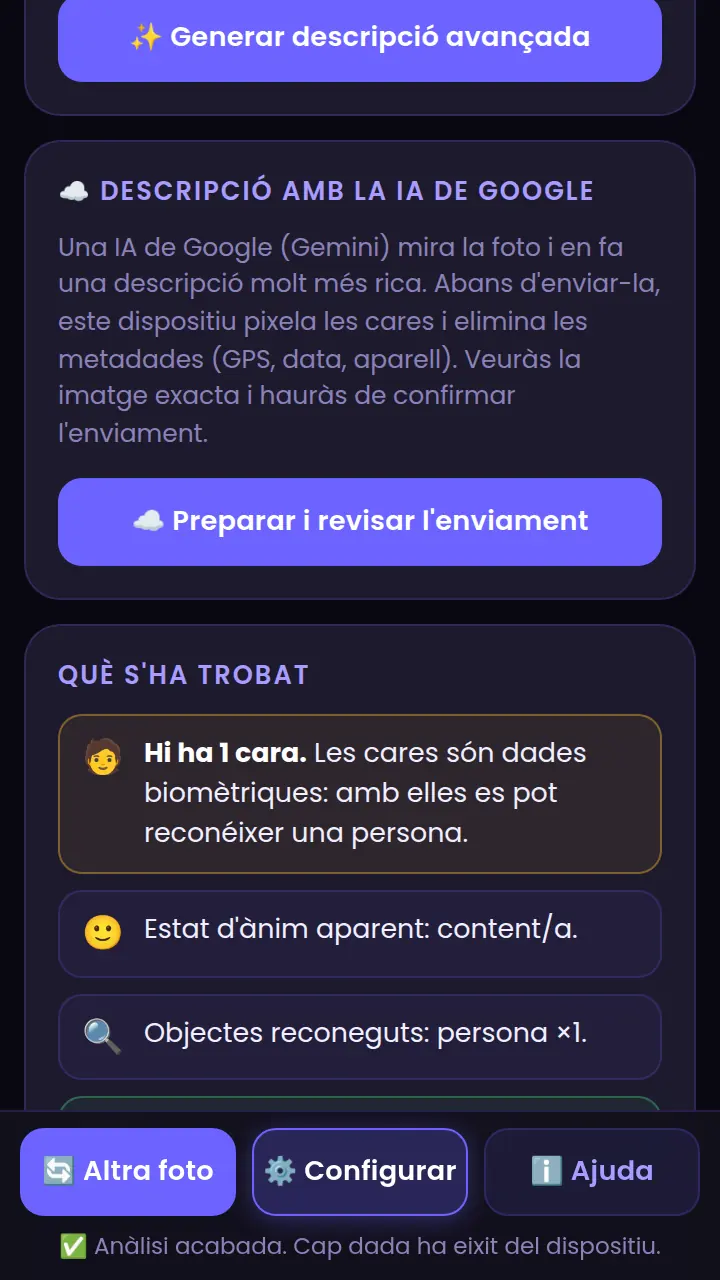
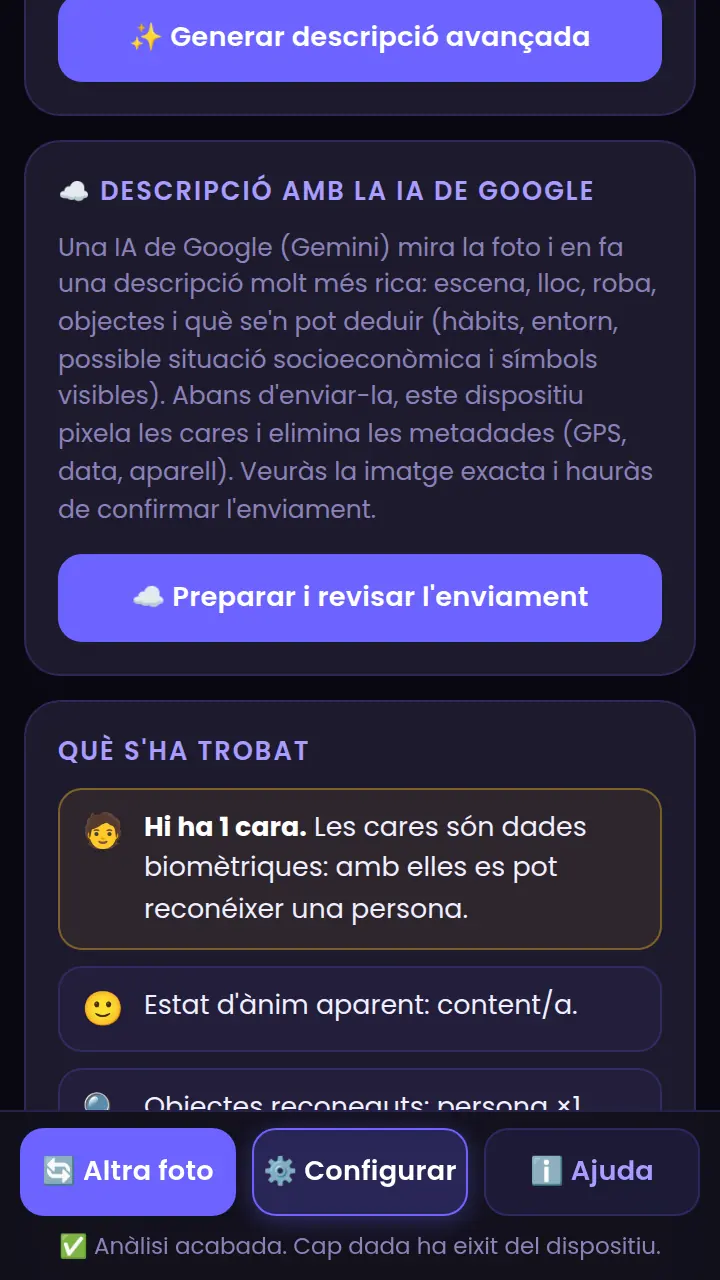
update

Changed region(s): [[0.0306, 0.1875, 0.9778, 0.875]]

diff --git a/quevuen/guia.html b/quevuen/guia.html
@@ -28,7 +28,7 @@
 <section class="step" id="resultat"><div class="step-head"><span class="n">3</span><h2>Llig el resultat</h2></div><p>En uns segons (la primera vegada, un poc més perquè carreguen els models) veuràs la foto amb requadres i, a sota, el resum.</p><div class="figrow"><figure class="fig phone"><img src="guia-img/quevuen-2-resultat.webp" alt="Resultat amb la foto marcada"><figcaption>La foto amb el text detectat marcat en groc. Els botons de sota activen o desactiven els requadres.</figcaption></figure><figure class="fig phone"><img src="guia-img/quevuen-3-resum.webp" alt="Resum de privacitat"><figcaption>El resum: un «risc de privacitat» i què sap qui reba la foto.</figcaption></figure></div><div class="tw"><table class="t"><tr><th>Zona</th><th>Què és</th></tr><tr><td><b>Requadres</b></td><td>Violeta = cares (amb l'edat estimada), verd = objectes, groc = text llegit. Els botons de sota de la foto els mostren o amaguen.</td></tr><tr><td><b>Risc de privacitat</b></td><td><b>Baix</b>, <b>mitjà</b> o <b>alt</b>. Puja amb la ubicació exacta, el nom de l'autor/a, el número de sèrie, cares (sobretot de menors) i dades personals llegides (telèfon, correu, matrícula…).</td></tr><tr><td><b>El resum</b></td><td>Uns quants paràgrafs, com ho diria algú que veu la foto: qui/quan/amb què, on, qui hi apareix i què es pot llegir, i <b>què se'n pot deduir</b> creuant les dades (per exemple: «es va fer en horari de classe i amb GPS: es pot deduir quin centre freqüentes»).</td></tr><tr><td><b>Què s'ha trobat</b></td><td>La llista detallada, ordenada de més a menys important: roig = molt sensible, groc = a vigilar, gris = informatiu, verd = tot bé.</td></tr></table></div></section>
 <section class="step" id="troballes"><div class="step-head"><span class="n">4</span><h2>Les troballes, una per una</h2></div><div class="figrow"><figure class="fig phone"><img src="guia-img/quevuen-4-troballes.webp" alt="Llista de troballes"><figcaption>Llista de troballes: ubicació, correu, telèfon, matrícula…</figcaption></figure><figure class="fig phone"><img src="guia-img/quevuen-5-ubicacio.webp" alt="Targeta d'ubicació, aparell i data"><figcaption>Detall de la ubicació, l'aparell i la data.</figcaption></figure></div><h3>📍 Ubicació, aparell i data</h3><p>Si la foto porta <b>GPS</b>, veuràs les coordenades, l'altitud i cap on mirava el mòbil, i un botó per <b>obrir el lloc en OpenStreetMap</b> (eixe botó necessita Internet; la resta no). També es mostra la marca i el model del mòbil, la versió del programari, l'objectiu de la càmera, el <b>número de sèrie</b> si hi és, l'autor/a i la data i l'hora exactes. Amb activar <i>Mostrar detalls tècnics</i> a la configuració, apareix la llista completa de metadades.</p><h3>🧑 Persones</h3><p>Per a cada cara es mostra un detall xicotet amb l'<b>edat aproximada</b>, el <b>sexe aparent</b> i l'<b>expressió</b> (content/a, trist/a, sorprés/a…). Són estimacions d'un model molt menut: poden errar molts anys. Si calcula que hi ha algú <b>menor</b>, ho marca amb una alerta, perquè eixes fotos convé compartir-les amb molta cura.</p><h3>🔍 Objectes i 🔤 Text</h3><p>L'app reconeix unes <b>80 classes</b> d'objectes (persona, cotxe, gos, mòbil, tassa, cadira…) i en deduïx si sembla un lloc interior o exterior. El text es llig amb OCR; si hi ha <b>telèfons, correus, matrícules, DNI, IBAN o adreces</b>, els marca com a dades personals visibles.</p><h3>🎨 Colors i llum</h3><p>Mostra els cinc colors dominants i si la foto és fosca o molt lluminosa (una pista de si és de nit o de dia).</p></section>
 <section class="step" id="avancada"><div class="step-head"><span class="n">5</span><h2>Descripció avançada amb IA (opcional)</h2></div><p>L'anàlisi bàsica troba coses concretes (cares, objectes, text, metadades), però no «entén» la foto sencera. Per això hi ha un segon nivell: un model d'IA de visió i llenguatge, <b>Florence-2</b>, que mira la imatge i l'<b>escriu amb frases</b>, com faria una persona.</p><div class="figrow"><figure class="fig phone"><img src="guia-img/quevuen-8-avancada-abans.webp" alt="Targeta de descripció avançada abans de generar"><figcaption>La targeta «Descripció avançada amb IA»: avisa de la descàrrega i té el botó per a generar-la.</figcaption></figure><figure class="fig phone"><img src="guia-img/quevuen-9-avancada.webp" alt="Descripció avançada generada"><figcaption>Després de generar-la: el que «veu» el model.</figcaption></figure></div><div class="note"><b>ℹ Dibuix il·lustratiu.</b> El text d'estes captures és un exemple, per a mostrar com queda; el model real pot escriure una cosa diferent.</div><ol><li>Quan l'anàlisi bàsica acaba, baixa fins a la targeta <b>🧠 Descripció avançada amb IA</b> i prem <b>✨ Generar descripció avançada</b>.</li><li><b>La primera vegada</b> l'app demana permís per a descarregar el model (uns <b>250 MB</b>: millor amb Wi-Fi). Només es baixa una vegada.</li><li>Espera: el mòbil «mira» la foto. Segons el mòbil pot tardar de <b>uns segons a uns minuts</b>.</li><li>Apareix la descripció <b>en anglés</b> i el resum s'enriquix: deduïx el tipus de lloc (cuina, aula, platja…), què fa la gent i si semblen xiquets o hi ha uniformes o logotips.</li></ol><h3>Què cal saber</h3><ul><li><b>Es fa tot al mòbil.</b> La foto no s'envia a cap servidor; només es baixa el model d'IA (de Hugging Face).</li><li><b>Després funciona sense Internet</b>, perquè el model queda guardat en el navegador d'este dispositiu.</li><li><b>Va millor en Android amb Chrome</b> actualitzat (usa la targeta gràfica, WebGPU). Si el mòbil no ho permet, usa el processador i va més lent.</li><li><b>Escriu en anglés</b> i pot errar o inventar-se coses. Tracta-ho com una pista, no com una veritat.</li><li>Si no vols este model, desactiva-la a <b>⚙ Configurar → «Mostrar la descripció avançada»</b>.</li></ul><div class="warn"><b>⚠ Primera descàrrega.</b> Si no tens connexió i el model no està descarregat, l'app t'ho diu i no passa res: l'anàlisi bàsica continua funcionant.</div></section>
-<section class="step" id="google"><div class="step-head"><span class="n">6</span><h2>IA de Google (opcional, desactivada)</h2></div><p>La descripció local és limitada. Si vols una descripció <b>molt més rica</b>, pots permetre que la foto s'envie a <b>Gemini</b>, la IA de Google. Està <b>desactivat per defecte</b> i té moltes proteccions, perquè la foto <b>ix del teu dispositiu</b>.</p><div class="figrow"><figure class="fig phone"><img src="guia-img/quevuen-11-nuvol-config.webp" alt="Configuració de la IA de Google"><figcaption>A Configuració: l'interruptor, la clau i el model.</figcaption></figure><figure class="fig phone"><img src="guia-img/quevuen-13-nuvol-confirma.webp" alt="Vista prèvia abans d'enviar"><figcaption>Abans d'enviar: la imatge exacta, amb la cara pixelada.</figcaption></figure></div><div class="note"><b>ℹ Dibuix il·lustratiu.</b> El text de la captura del resultat és un exemple per a mostrar com queda; la resposta real de Google serà diferent.</div><h3>Com activar-ho</h3><ol><li>A <b>⚙ Configurar → ☁ IA de Google</b>, marca <b>«Permetre descripcions amb la IA de Google»</b>.</li><li>Entra amb un compte de Google a <b>aistudio.google.com/apikey</b> (hi ha un enllaç a la configuració) i crea una <b>clau d'API</b>. Hi ha un <b>nivell gratuït</b> (amb límits) per als models Flash; si actives la facturació, el cost és mínim (una foto costa una fracció de cèntim).</li><li>Apega la clau al camp. <b>Es guarda només en este navegador</b>: no puja a cap web ni a GitHub. No la compartisques.</li><li>Tria el model (<b>Flash</b> és millor; <b>Flash-Lite</b> és més ràpid i barat). Si Google canvia els noms, tria «Un altre» i escriu el nou.</li></ol><h3>Què passa quan envies una foto</h3><ol><li>Analitza la foto com sempre i, a la targeta <b>☁ Descripció amb la IA de Google</b>, prem <b>«Preparar i revisar l'enviament»</b>.</li><li>El dispositiu <b>busca les cares i les pixela</b> (només les cares), i guarda la còpia <b>sense metadades</b> (GPS, data, aparell).</li><li>Veuràs <b>la imatge exacta</b> que s'enviarà. Si alguna cosa no et convenç (una cara sense pixelar, un cartell amb dades), prem <b>Cancel·lar</b>: no s'ha enviat res.</li><li>Només si prems <b>«Enviar a Google»</b> es fa l'enviament. La resposta apareix a la targeta.</li></ol><div class="warn"><b>⚠ Quan NO s'envia res.</b> L'app <b>bloqueja l'enviament</b> si detecta una cara que podria ser d'un <b>menor</b> (edat estimada inferior a 20 anys) o una <b>persona de la qual no pot localitzar la cara</b> (d'esquena, de lluny, tapada). També si no pot comprovar-ho. En eixos casos, usa una foto sense persones.</div><div class="warn"><b>⚠ Pixelar només les cares no és suficient.</b> El <b>text</b> (matrícules, cartells, noms), el <b>lloc</b> i la <b>roba</b> continuen veient-se. Si hi ha text llegible, l'app t'ho avisa. A més, el pixelat automàtic pot fallar: <b>mira sempre la vista prèvia</b>.</div><div class="note"><b>ℹ Privacitat de Google.</b> Amb una <b>clau gratuïta</b>, Google pot usar la imatge i la resposta per a millorar els seus productes, i persones revisores poden veure-les. Amb una clau de pagament no ho fa. Els termes de Google exigeixen ser <b>major de 18 anys</b> per a usar la seua API: en classe, la clau l'ha de posar el professorat. Si no vols que isca res del mòbil, deixa-ho desactivat.</div></section>
+<section class="step" id="google"><div class="step-head"><span class="n">6</span><h2>IA de Google (opcional, desactivada)</h2></div><p>La descripció local és limitada. Si vols una descripció <b>molt més rica</b>, pots permetre que la foto s'envie a <b>Gemini</b>, la IA de Google. Està <b>desactivat per defecte</b> i té moltes proteccions, perquè la foto <b>ix del teu dispositiu</b>.</p><div class="figrow"><figure class="fig phone"><img src="guia-img/quevuen-11-nuvol-config.webp" alt="Configuració de la IA de Google"><figcaption>A Configuració: l'interruptor, la clau i el model.</figcaption></figure><figure class="fig phone"><img src="guia-img/quevuen-13-nuvol-confirma.webp" alt="Vista prèvia abans d'enviar"><figcaption>Abans d'enviar: la imatge exacta, amb la cara pixelada.</figcaption></figure></div><div class="note"><b>ℹ Dibuix il·lustratiu.</b> El text de la captura del resultat és un exemple per a mostrar com queda; la resposta real de Google serà diferent.</div><h3>Com activar-ho</h3><ol><li>A <b>⚙ Configurar → ☁ IA de Google</b>, marca <b>«Permetre descripcions amb la IA de Google»</b>.</li><li>Entra amb un compte de Google a <b>aistudio.google.com/apikey</b> (hi ha un enllaç a la configuració) i crea una <b>clau d'API</b>. Hi ha un <b>nivell gratuït</b> (amb límits) per als models Flash; si actives la facturació, el cost és mínim (una foto costa una fracció de cèntim).</li><li>Apega la clau al camp. <b>Es guarda només en este navegador</b>: no puja a cap web ni a GitHub. No la compartisques.</li><li>Tria el model (<b>Flash</b> és millor; <b>Flash-Lite</b> és més ràpid i barat). Si Google canvia els noms, tria «Un altre» i escriu el nou.</li></ol><h3>Què passa quan envies una foto</h3><ol><li>Analitza la foto com sempre i, a la targeta <b>☁ Descripció amb la IA de Google</b>, prem <b>«Preparar i revisar l'enviament»</b>.</li><li>El dispositiu <b>busca les cares i les pixela</b> (només les cares), i guarda la còpia <b>sense metadades</b> (GPS, data, aparell). Pots triar com d'ajustat és el pixelat a Configuració: <b>màxima</b>, <b>equilibrada</b> (recomanada) o <b>ajustada</b>.</li><li>Veuràs <b>la imatge exacta</b> que s'enviarà. Si alguna cosa no et convenç (una cara sense pixelar, un cartell amb dades), prem <b>Cancel·lar</b>: no s'ha enviat res.</li><li>Només si prems <b>«Enviar a Google»</b> es fa l'enviament. La resposta apareix a la targeta.</li></ol><div class="warn"><b>⚠ Quan NO s'envia res.</b> L'app <b>bloqueja l'enviament</b> si detecta una cara que podria ser d'un <b>menor</b> (edat estimada inferior a 20 anys) o una <b>persona de la qual no pot localitzar la cara</b> (d'esquena, de lluny, tapada). També si no pot comprovar-ho. En eixos casos, usa una foto sense persones.</div><div class="warn"><b>⚠ Pixelar només les cares no és suficient.</b> El <b>text</b> (matrícules, cartells, noms), el <b>lloc</b> i la <b>roba</b> continuen veient-se. Si hi ha text llegible, l'app t'ho avisa. A més, el pixelat automàtic pot fallar: <b>mira sempre la vista prèvia</b>.</div><div class="note"><b>ℹ Privacitat de Google.</b> Amb una <b>clau gratuïta</b>, Google pot usar la imatge i la resposta per a millorar els seus productes, i persones revisores poden veure-les. Amb una clau de pagament no ho fa. Els termes de Google exigeixen ser <b>major de 18 anys</b> per a usar la seua API: en classe, la clau l'ha de posar el professorat. Si no vols que isca res del mòbil, deixa-ho desactivat.</div><div class="note"><b>ℹ Què diu la descripció.</b> Gemini descriu l'escena i apunta <b>hipòtesis</b> sobre hàbits, entorn, <b>possible situació socioeconòmica</b> (habitatge, objectes, roba, marques) i, només si es veuen, <b>símbols</b> (banderes, samarretes, cartells). No endevina salut, religió ni orientació, ni diu qui és ningú. Pot errar o exagerar: és un exemple de com d'informatiu és una foto.</div></section>
 <section class="step" id="protegir"><div class="step-head"><span class="n">7</span><h2>Com protegir-te</h2></div><div class="figrow"><figure class="fig phone"><img src="guia-img/quevuen-6-protegir.webp" alt="Targeta «Com protegir-te»"><figcaption>Consells i botons per a protegir la foto.</figcaption></figure></div><p>Al final del resultat tens consells pràctics i dos botons:</p><ul><li><b>⬇ Descarregar sense metadades</b>: baixa una còpia de la foto <b>sense cap dada amagada</b> (GPS, aparell, data, autor/a). El nom acaba en <code>-sense-metadades.jpg</code>. Compte: <b>no esborra</b> el que es veu en la imatge (cartells, cares, matrícules).</li><li><b>🗑 Esborrar l'anàlisi</b>: tanca el resultat i oblida la foto de la memòria de l'app.</li></ul><h3>Consells ràpids</h3><ul><li>Desactiva la ubicació de la càmera si no la necessites (Configuració de la càmera → «Etiquetes d'ubicació»).</li><li>Abans de compartir en públic, esborra les metadades o fes una captura de pantalla de la foto.</li><li>Mira el fons: rètols, matrícules, façanes, carnets, pantalles.</li><li>No publiques fotos de menors ni d'altres persones sense el seu permís.</li><li>Una foto feta a casa, des de casa o a l'eixida del centre pot revelar on vius o on estudies.</li><li>Moltes xarxes socials esborren les metadades, però no totes ni sempre; i el contingut de la imatge continua dient molt.</li></ul></section>
 <section class="step" id="configuracio"><div class="step-head"><span class="n">8</span><h2>Configuració</h2></div><div class="figrow"><figure class="fig phone"><img src="guia-img/quevuen-7-config.webp" alt="Configuració de Què veuen de tu"><figcaption>Configuració ⚙: què analitzar, idiomes del text i detalls tècnics.</figcaption></figure></div><div class="tw"><table class="t"><tr><th>Opció</th><th>Què fa</th><th>Recomanació</th></tr><tr><td>Cares</td><td>Detecta cares i estima edat, sexe aparent i expressió.</td><td>Activada.</td></tr><tr><td>Objectes</td><td>Reconeix objectes i escena. Necessita descarregar el model una vegada.</td><td>Activada.</td></tr><tr><td>Text a la imatge</td><td>Llig cartells, matrícules, telèfons… És l'anàlisi <b>més lenta</b>.</td><td>Desactiva-la si el mòbil va molt just.</td></tr><tr><td>Idiomes del text</td><td>Català, castellà i anglés. Com menys en marques, més ràpid va.</td><td>Només els que necessites.</td></tr><tr><td>Mostrar la descripció avançada</td><td>Mostra o amaga la targeta del model de visió-llenguatge (~250 MB).</td><td>Activada; només es baixa si prems el botó.</td></tr><tr><td>IA de Google (☁)</td><td>Permet enviar a Gemini una còpia amb les cares pixelades, amb la teua clau d'API i confirmació.</td><td><b>Desactivada</b> si no cal.</td></tr><tr><td>Mostrar detalls tècnics</td><td>Afig percentatges i la llista completa de metadades.</td><td>Per a classe o per a curiosos.</td></tr></table></div><p>També hi trobaràs el selector d'<b>idioma</b> (valencià, castellà, anglés). La configuració es guarda al mòbil.</p></section>
 <section class="step" id="sense-internet"><div class="step-head"><span class="n">9</span><h2>Sense Internet</h2></div><p><b>Sí, funciona sense connexió</b>, però cal haver-ho carregat abans una vegada:</p><ol><li>Amb Internet (millor amb Wi-Fi), a la pantalla principal de PIAR prem <b>«Descarregar per a ús sense Internet»</b>. Es guarden les llibreries, els models de cares i de text, i el model d'objectes.</li><li>També pots obrir <b>Què veuen de tu</b> amb Internet i analitzar una foto: tot el que s'use quedarà guardat.</li><li>Després ja pots usar-la en mode avió.</li></ol><div class="note"><b>ℹ Què necessita Internet?</b> Només la <b>primera descàrrega</b> del model d'objectes (ve de Google), la del model de <b>descripció avançada</b> (250 MB, només si la uses; <u>no</u> entra en el botó de la pantalla principal: es baixa des de l'app) el botó <i>Obrir en OpenStreetMap</i> i la <b>IA de Google</b> (opcional), que sempre en necessita. La resta de models ja van dins de l'app. Si el model d'objectes no està descarregat, l'anàlisi continua sense eixa part.</div><div class="warn"><b>⚠ El primer ús és el més lent.</b> El primer cop, el mòbil carrega diversos models (uns 12 MB de llibreries). Després va molt més ràpid.</div></section>

diff --git a/quevuen/js/i18n.js b/quevuen/js/i18n.js
@@ -272,7 +272,7 @@ PIAR_I18N.add({
     "qv.f.cap_place": "El model avançat creu que podria ser {place}.",
     "qv.help.how_6": "<b>Descripció avançada (opcional):</b> un model d'IA més potent descriu la foto en frases. Descarrega ~250 MB la primera vegada i després funciona sense Internet.",
     "qv.cloud.title": "☁ Descripció amb la IA de Google",
-    "qv.cloud.intro": "Una IA de Google (Gemini) mira la foto i en fa una descripció molt més rica. Abans d'enviar-la, este dispositiu pixela les cares i elimina les metadades (GPS, data, aparell). Veuràs la imatge exacta i hauràs de confirmar l'enviament.",
+    "qv.cloud.intro": "Una IA de Google (Gemini) mira la foto i en fa una descripció molt més rica: escena, lloc, roba, objectes i què se'n pot deduir (hàbits, entorn, possible situació socioeconòmica i símbols visibles). Abans d'enviar-la, este dispositiu pixela les cares i elimina les metadades (GPS, data, aparell). Veuràs la imatge exacta i hauràs de confirmar l'enviament.",
     "qv.cloud.btn": "☁ Preparar i revisar l'enviament",
     "qv.cloud.btn_again": "🔁 Tornar a descriure amb Google",
     "qv.cloud.nokey": "🔑 Falta la clau de Google. Posa-la a Configuració (⚙) → IA de Google.",
@@ -323,6 +323,15 @@ PIAR_I18N.add({
     "qv.cfg.model_ph": "p. ex. gemini-3.5-flash",
     "qv.help.how_7": "<b>IA de Google (opcional, desactivada):</b> si l'actives a Configuració i hi poses la teua clau, pots enviar la foto a Gemini per a una descripció molt millor. Abans, el dispositiu <b>pixela les cares</b>, elimina les metadades i et ho mostra per a confirmar. Si hi ha menors o persones sense cara localitzada, <b>no s'envia</b>.",
     "qv.help.net_3": "La <strong>IA de Google</strong> (opcional) necessita Internet cada vegada que la uses. La resta de l'app continua funcionant sense connexió.",
+    "qv.cfg.pix": "Protecció de les cares",
+    "qv.cfg.pix.max": "Màxima (cobreix cabells i coll)",
+    "qv.cfg.pix.bal": "Equilibrada (òval ajustat) · recomanada",
+    "qv.cfg.pix.tight": "Ajustada (menys foto tapada)",
+    "qv.cfg.pix_hint": "Com més ajustada, més foto es conserva per a la descripció, però queda més a la vista (cabells, orelles). Revisa sempre la vista prèvia.",
+    "qv.cloud.conf.pix": "✅ Pixelat {level}: {pct} % de la foto tapat",
+    "qv.cloud.lvl.max": "màxim",
+    "qv.cloud.lvl.bal": "equilibrat",
+    "qv.cloud.lvl.tight": "ajustat",
     "qv.c.person": "persona",
     "qv.c.bicycle": "bicicleta",
     "qv.c.car": "cotxe",
@@ -673,7 +682,7 @@ PIAR_I18N.add({
     "qv.f.cap_place": "El modelo avanzado cree que podría ser {place}.",
     "qv.help.how_6": "<b>Descripción avanzada (opcional):</b> un modelo de IA más potente describe la foto con frases. Descarga ~250 MB la primera vez y después funciona sin Internet.",
     "qv.cloud.title": "☁ Descripción con la IA de Google",
-    "qv.cloud.intro": "Una IA de Google (Gemini) mira la foto y hace una descripción mucho más rica. Antes de enviarla, este dispositivo pixela las caras y elimina los metadatos (GPS, fecha, aparato). Verás la imagen exacta y tendrás que confirmar el envío.",
+    "qv.cloud.intro": "Una IA de Google (Gemini) mira la foto y hace una descripción mucho más rica: escena, lugar, ropa, objetos y qué se puede deducir (hábitos, entorno, posible situación socioeconómica y símbolos visibles). Antes de enviarla, este dispositivo pixela las caras y elimina los metadatos (GPS, fecha, aparato). Verás la imagen exacta y tendrás que confirmar el envío.",
     "qv.cloud.btn": "☁ Preparar y revisar el envío",
     "qv.cloud.btn_again": "🔁 Volver a describir con Google",
     "qv.cloud.nokey": "🔑 Falta la clave de Google. Ponla en Configuración (⚙) → IA de Google.",
@@ -724,6 +733,15 @@ PIAR_I18N.add({
     "qv.cfg.model_ph": "p. ej. gemini-3.5-flash",
     "qv.help.how_7": "<b>IA de Google (opcional, desactivada):</b> si la activas en Configuración y pones tu clave, puedes enviar la foto a Gemini para una descripción mucho mejor. Antes, el dispositivo <b>pixela las caras</b>, elimina los metadatos y te lo muestra para confirmar. Si hay menores o personas sin cara localizada, <b>no se envía</b>.",
     "qv.help.net_3": "La <strong>IA de Google</strong> (opcional) necesita Internet cada vez que la usas. El resto de la app sigue funcionando sin conexión.",
+    "qv.cfg.pix": "Protección de las caras",
+    "qv.cfg.pix.max": "Máxima (cubre pelo y cuello)",
+    "qv.cfg.pix.bal": "Equilibrada (óvalo ajustado) · recomendada",
+    "qv.cfg.pix.tight": "Ajustada (menos foto tapada)",
+    "qv.cfg.pix_hint": "Cuanto más ajustada, más foto se conserva para la descripción, pero queda más a la vista (pelo, orejas). Revisa siempre la vista previa.",
+    "qv.cloud.conf.pix": "✅ Pixelado {level}: {pct} % de la foto tapado",
+    "qv.cloud.lvl.max": "máximo",
+    "qv.cloud.lvl.bal": "equilibrado",
+    "qv.cloud.lvl.tight": "ajustado",
     "qv.c.person": "persona",
     "qv.c.bicycle": "bicicleta",
     "qv.c.car": "coche",
@@ -1074,7 +1092,7 @@ PIAR_I18N.add({
     "qv.f.cap_place": "The advanced model thinks this could be {place}.",
     "qv.help.how_6": "<b>Advanced description (optional):</b> a more powerful AI model describes the photo in sentences. It downloads ~250 MB the first time and then works without Internet.",
     "qv.cloud.title": "☁ Description with Google AI",
-    "qv.cloud.intro": "A Google AI (Gemini) looks at the photo and writes a much richer description. Before sending it, this device pixelates the faces and removes the metadata (GPS, date, device). You will see the exact image and must confirm before it is sent.",
+    "qv.cloud.intro": "A Google AI (Gemini) looks at the photo and writes a much richer description: scene, place, clothing, objects and what can be inferred (habits, surroundings, possible socioeconomic situation and visible symbols). Before sending it, this device pixelates the faces and removes the metadata (GPS, date, device). You will see the exact image and must confirm before it is sent.",
     "qv.cloud.btn": "☁ Prepare and review what is sent",
     "qv.cloud.btn_again": "🔁 Describe again with Google",
     "qv.cloud.nokey": "🔑 The Google key is missing. Add it in Settings (⚙) → Google AI.",
@@ -1125,6 +1143,15 @@ PIAR_I18N.add({
     "qv.cfg.model_ph": "e.g. gemini-3.5-flash",
     "qv.help.how_7": "<b>Google AI (optional, off):</b> if you turn it on in Settings and add your key, you can send the photo to Gemini for a much better description. First the device <b>pixelates the faces</b>, removes the metadata and shows it to you to confirm. If there are minors or people whose face was not located, <b>nothing is sent</b>.",
     "qv.help.net_3": "<strong>Google AI</strong> (optional) needs Internet every time you use it. The rest of the app keeps working offline.",
+    "qv.cfg.pix": "Face protection",
+    "qv.cfg.pix.max": "Maximum (covers hair and neck)",
+    "qv.cfg.pix.bal": "Balanced (tight oval) · recommended",
+    "qv.cfg.pix.tight": "Tight (less of the photo covered)",
+    "qv.cfg.pix_hint": "The tighter it is, the more of the photo is kept for the description, but more stays visible (hair, ears). Always check the preview.",
+    "qv.cloud.conf.pix": "✅ Pixelation {level}: {pct} % of the photo covered",
+    "qv.cloud.lvl.max": "maximum",
+    "qv.cloud.lvl.bal": "balanced",
+    "qv.cloud.lvl.tight": "tight",
     "qv.c.person": "person",
     "qv.c.bicycle": "bicycle",
     "qv.c.car": "car",

diff --git a/quevuen/js/cloud.js b/quevuen/js/cloud.js
@@ -23,7 +23,7 @@
 
   const inside = (px, py, b, m) => px >= b.x - m && px <= b.x + b.w + m && py >= b.y - m && py <= b.y + b.h + m;
 
-  async function prepare(img, a) {
+  async function prepare(img, a, level) {
     const canvas = img.canvas;
     let faces;
     try { faces = await QV.detectFacesWide(canvas); } catch (e) { return { ok: false, reason: 'nocheck' }; }
@@ -40,17 +40,17 @@
     });
     if (lost.length) return { ok: false, reason: 'people', n: lost.length };
     // 3) Pixelat + JPEG sense metadades
-    const px = QV.pixelateRegions(canvas, faces.map((f) => f.box));
+    const px = QV.pixelateRegions(canvas, faces.map((f) => f.box), level);
     const blob = await QV.toJpegBlob(px.canvas, SEND_SIDE, 0.85);
     if (!blob) return { ok: false, reason: 'nocheck' };
     const hasText = !!(a && a.text && a.text.text && window.QVI && QVI.findPII(a.text.text).length);
-    return { ok: true, blob, url: URL.createObjectURL(blob), faces: faces.length, text: hasText };
+    return { ok: true, blob, url: URL.createObjectURL(blob), faces: faces.length, text: hasText, coverage: px.coverage };
   }
 
   const PROMPTS = {
-    ca: 'Ets un ajudant d\'una activitat escolar sobre privacitat digital. Descriu esta foto amb detall: escena, lloc probable, persones (SENSE identificar-les: les cares estan pixelades a propòsit), objectes, roba, text visible i moment del dia. Després afig una secció «Què es podria deduir» amb 4 a 6 punts (hàbits, aficions, entorn, context escolar o familiar…) deixant clar que són hipòtesis. No endevines dades molt personals (salut, religió, orientació, ideologia) ni intentes saber qui és ningú. Escriu en valencià, en text pla sense Markdown ni asteriscs, amb un màxim de 220 paraules.',
-    es: 'Eres un ayudante de una actividad escolar sobre privacidad digital. Describe esta foto con detalle: escena, lugar probable, personas (SIN identificarlas: las caras están pixeladas a propósito), objetos, ropa, texto visible y momento del día. Después añade una sección «Qué se podría deducir» con 4 a 6 puntos (hábitos, aficiones, entorno, contexto escolar o familiar…) dejando claro que son hipótesis. No adivines datos muy personales (salud, religión, orientación, ideología) ni intentes saber quién es nadie. Escribe en español, en texto plano sin Markdown ni asteriscos, con un máximo de 220 palabras.',
-    en: 'You are a helper in a school activity about digital privacy. Describe this photo in detail: scene, likely place, people (WITHOUT identifying them: the faces are pixelated on purpose), objects, clothing, visible text and time of day. Then add a section called "What could be inferred" with 4 to 6 points (habits, hobbies, surroundings, school or family context…) making clear these are hypotheses. Do not guess very personal data (health, religion, orientation, ideology) and do not try to work out who anyone is. Write in English, in plain text without Markdown or asterisks, in at most 220 words.'
+    ca: "Ets un ajudant d'una activitat escolar sobre privacitat digital. Descriu esta foto amb detall: escena, lloc probable, persones (SENSE identificar-les: les cares estan pixelades a propòsit), objectes, roba, text visible i moment del dia. Després afig la secció «Què es podria deduir» amb 5 a 8 punts, deixant clar que són hipòtesis: hàbits i aficions, entorn i context (escolar, familiar, laboral), possible situació socioeconòmica (tipus d'habitatge, objectes, roba, marques, vehicle) i, només si hi ha símbols visibles (banderes, samarretes, cartells, pegatines), pistes polítiques o ideològiques de l'entorn, sense atribuir una ideologia a cap persona concreta. No endevines salut, religió ni orientació sexual, ni intentes saber qui és ningú. Escriu en valencià, en text pla sense Markdown ni asteriscs, amb un màxim de 280 paraules.",
+    es: "Eres un ayudante de una actividad escolar sobre privacidad digital. Describe esta foto con detalle: escena, lugar probable, personas (SIN identificarlas: las caras están pixeladas a propósito), objetos, ropa, texto visible y momento del día. Después añade la sección «Qué se podría deducir» con 5 a 8 puntos, dejando claro que son hipótesis: hábitos y aficiones, entorno y contexto (escolar, familiar, laboral), posible situación socioeconómica (tipo de vivienda, objetos, ropa, marcas, vehículo) y, solo si hay símbolos visibles (banderas, camisetas, carteles, pegatinas), pistas políticas o ideológicas del entorno, sin atribuir una ideología a ninguna persona concreta. No adivines salud, religión ni orientación sexual, ni intentes saber quién es nadie. Escribe en español, en texto plano sin Markdown ni asteriscos, con un máximo de 280 palabras.",
+    en: "You are a helper in a school activity about digital privacy. Describe this photo in detail: scene, likely place, people (WITHOUT identifying them: the faces are pixelated on purpose), objects, clothing, visible text and time of day. Then add a section called \"What could be inferred\" with 5 to 8 points, making clear they are hypotheses: habits and hobbies, surroundings and context (school, family, work), possible socioeconomic situation (type of housing, objects, clothing, brands, vehicle) and, only if there are visible symbols (flags, t-shirts, posters, stickers), political or ideological cues of the setting, without attributing an ideology to any specific person. Do not guess health, religion or sexual orientation, and do not try to work out who anyone is. Write in English, in plain text without Markdown or asterisks, in at most 280 words."
   };
 
   function blobToB64(blob) {
@@ -69,7 +69,7 @@
     const data = await blobToB64(blob);
     const body = {
       contents: [{ role: 'user', parts: [{ text: PROMPTS[lang] || PROMPTS.ca }, { inline_data: { mime_type: 'image/jpeg', data } }] }],
-      generationConfig: { temperature: 0.5, maxOutputTokens: 2500 }
+      generationConfig: { temperature: 0.5, maxOutputTokens: 3000 }
     };
     const ctl = typeof AbortController !== 'undefined' ? new AbortController() : null;
     const timer = ctl ? setTimeout(() => ctl.abort(), 90000) : null;

diff --git a/quevuen/js/analyzer.js b/quevuen/js/analyzer.js
@@ -219,25 +219,36 @@
     const out = groups.filter((g) => g.best.score >= 0.5 || (g.n >= 2 && g.best.score >= 0.25)).map((g) => g.best);
     return out;
   }
-  // Còpia de la imatge amb un mosaic gros damunt de cada regió (amb marge perquè entren cabells i orelles)
-  function pixelateRegions(canvas, boxes) {
+  // Còpia de la imatge amb un mosaic damunt de cada cara. Nivells de protecció:
+  //   max   → quadrat amplit (cabells, orelles i coll inclosos), mosaic gros
+  //   bal   → òval ajustat a la cara (equilibrat)
+  //   tight → òval molt ajustat (és la que tapa menys foto)
+  const PIX_LEVELS = {
+    max:   { mx: 0.35, mt: 0.55, mb: 0.30, cells: 5, ellipse: false },
+    bal:   { mx: 0.18, mt: 0.28, mb: 0.10, cells: 6, ellipse: true },
+    tight: { mx: 0.12, mt: 0.22, mb: 0.08, cells: 6, ellipse: true }
+  };
+  function pixelateRegions(canvas, boxes, level) {
+    const L = PIX_LEVELS[level] || PIX_LEVELS.bal;
     const out = document.createElement('canvas'); out.width = canvas.width; out.height = canvas.height;
     const ctx = out.getContext('2d'); ctx.drawImage(canvas, 0, 0);
-    const regions = [];
+    const regions = []; let area = 0;
     boxes.forEach((b) => {
-      const mx = b.w * 0.35, myT = b.h * 0.55, myB = b.h * 0.3;
-      const x0 = Math.max(0, Math.floor(b.x - mx)), y0 = Math.max(0, Math.floor(b.y - myT));
-      const x1 = Math.min(canvas.width, Math.ceil(b.x + b.w + mx)), y1 = Math.min(canvas.height, Math.ceil(b.y + b.h + myB));
+      const x0 = Math.max(0, Math.floor(b.x - b.w * L.mx)), y0 = Math.max(0, Math.floor(b.y - b.h * L.mt));
+      const x1 = Math.min(canvas.width, Math.ceil(b.x + b.w * (1 + L.mx))), y1 = Math.min(canvas.height, Math.ceil(b.y + b.h * (1 + L.mb)));
       const w = x1 - x0, h = y1 - y0; if (w < 2 || h < 2) return;
-      const cells = 5;                                             // ~5 caselles en el costat més curt: no es pot reconéixer
-      const bs = Math.max(6, Math.round(Math.min(w, h) / cells));
+      const bs = Math.max(6, Math.round(Math.min(w, h) / L.cells));          // ~5-6 caselles en el costat més curt: no es pot reconéixer
       const tw = Math.max(1, Math.ceil(w / bs)), th = Math.max(1, Math.ceil(h / bs));
       const tmp = document.createElement('canvas'); tmp.width = tw; tmp.height = th;
       const tctx = tmp.getContext('2d'); tctx.imageSmoothingEnabled = true; tctx.drawImage(canvas, x0, y0, w, h, 0, 0, tw, th);
-      ctx.imageSmoothingEnabled = false; ctx.drawImage(tmp, 0, 0, tw, th, x0, y0, w, h); ctx.imageSmoothingEnabled = true;
+      const m = document.createElement('canvas'); m.width = w; m.height = h;
+      const mc = m.getContext('2d'); mc.imageSmoothingEnabled = false; mc.drawImage(tmp, 0, 0, tw, th, 0, 0, w, h);
+      if (L.ellipse) { mc.globalCompositeOperation = 'destination-in'; mc.beginPath(); mc.ellipse(w / 2, h / 2, w / 2, h / 2, 0, 0, Math.PI * 2); mc.fill(); area += Math.PI * w * h / 4; }
+      else area += w * h;
+      ctx.drawImage(m, x0, y0);
       regions.push({ x: x0, y: y0, w, h });
     });
-    return { canvas: out, regions };
+    return { canvas: out, regions, coverage: area / (canvas.width * canvas.height) };
   }
   // JPEG redimensionat (sense EXIF: el canvas no en porta mai)
   function toJpegBlob(canvas, maxSide, q) {

diff --git a/quevuen/js/app.js b/quevuen/js/app.js
@@ -11,7 +11,7 @@
 
   // ── Configuració (es recorda en este dispositiu) ──
   const CFG_KEY = 'qv.cfg.v1';
-  const cfg = { faces: true, objects: true, text: true, vlm: true, cloud: false, cloudModel: 'gemini-3.5-flash', cloudModelCustom: '', tech: false, ocr: { cat: true, spa: true, eng: true } };
+  const cfg = { faces: true, objects: true, text: true, vlm: true, cloud: false, cloudModel: 'gemini-3.5-flash', cloudPix: 'bal', cloudModelCustom: '', tech: false, ocr: { cat: true, spa: true, eng: true } };
   try { const s = JSON.parse(localStorage.getItem(CFG_KEY) || 'null'); if (s) { Object.assign(cfg, s); cfg.ocr = Object.assign({ cat: true, spa: true, eng: true }, s.ocr || {}); } } catch (e) {}
   const saveCfg = () => { try { localStorage.setItem(CFG_KEY, JSON.stringify(cfg)); } catch (e) {} };
 
@@ -183,7 +183,7 @@
     const run = S.run;
     S.cloudBusy = true; $('cloudBtn').disabled = true; setCloudMsg('qv.cloud.prep');
     let prep;
-    try { prep = await QVCLOUD.prepare(S.img, S.a); }
+    try { prep = await QVCLOUD.prepare(S.img, S.a, cfg.cloudPix); }
     catch (e) { if (window.console) console.warn('[qv] cloud prepare', e); prep = { ok: false, reason: 'nocheck' }; }
     S.cloudBusy = false; $('cloudBtn').disabled = false;
     if (run !== S.run) return;
@@ -193,6 +193,7 @@
     $('cloudPreview').src = prep.url;
     const li = [];
     li.push(`<li>${esc(prep.faces ? _t('qv.cloud.conf.faces_n', { n: prep.faces }) : _t('qv.cloud.conf.faces_0'))}</li>`);
+    if (prep.faces) li.push(`<li>${esc(_t('qv.cloud.conf.pix', { level: _t('qv.cloud.lvl.' + (['max', 'bal', 'tight'].includes(cfg.cloudPix) ? cfg.cloudPix : 'bal')), pct: (prep.coverage * 100).toFixed(1) }))}</li>`);
     li.push(`<li>${esc(_t('qv.cloud.conf.meta'))}</li>`);
     if (prep.text) li.push(`<li class="warn">${esc(_t('qv.cloud.conf.text'))}</li>`);
     li.push(`<li>${esc(_t('qv.cloud.conf.model', { model: cloudModel() }))}</li>`);
@@ -375,6 +376,8 @@
     $('keyClear').addEventListener('click', () => { QVCLOUD.clearKey(); key.value = ''; key.type = 'password'; paintKey(); });
     sel.value = ['gemini-3.5-flash', 'gemini-3.5-flash-lite', 'custom'].includes(cfg.cloudModel) ? cfg.cloudModel : 'custom';
     cust.value = cfg.cloudModelCustom || (sel.value === 'custom' && !['gemini-3.5-flash', 'gemini-3.5-flash-lite'].includes(cfg.cloudModel) ? cfg.cloudModel : '');
+    const pix = $('cfgPix'); pix.value = ['max', 'bal', 'tight'].includes(cfg.cloudPix) ? cfg.cloudPix : 'bal';
+    pix.addEventListener('change', () => { cfg.cloudPix = pix.value; saveCfg(); });
     sel.addEventListener('change', () => { cfg.cloudModel = sel.value; paintModel(); saveCfg(); });
     cust.addEventListener('input', () => { cfg.cloudModelCustom = cust.value.trim(); saveCfg(); });
     paintModel(); paintKey();

diff --git a/quevuen/index.html b/quevuen/index.html
@@ -163,6 +163,13 @@
           <p class="config-note" id="keyState"></p>
           <p class="config-note" data-i18n="qv.cfg.key_hint"></p>
           <p class="config-note"><a href="https://aistudio.google.com/apikey" target="_blank" rel="noopener noreferrer" data-i18n="qv.cfg.key_get">Com aconseguir una clau gratuïta ↗</a></p>
+          <label for="cfgPix" data-i18n="qv.cfg.pix">Protecció de les cares</label>
+          <select id="cfgPix">
+            <option value="max" data-i18n="qv.cfg.pix.max">Màxima</option>
+            <option value="bal" data-i18n="qv.cfg.pix.bal">Equilibrada</option>
+            <option value="tight" data-i18n="qv.cfg.pix.tight">Ajustada</option>
+          </select>
+          <p class="config-note" data-i18n="qv.cfg.pix_hint"></p>
           <label for="cfgModel" data-i18n="qv.cfg.model">Model de Google</label>
           <select id="cfgModel">
             <option value="gemini-3.5-flash" data-i18n="qv.cfg.model.flash">Gemini 3.5 Flash (millor)</option>

diff --git a/sw.js b/sw.js
@@ -10,7 +10,7 @@
 
    La versió la posa tools/build-pwa.py. No edites la línia de VERSION a mà.
    ============================================================ */
-const VERSION = 'f2aab5da654e';
+const VERSION = 'e1768cd920dd';
 const SHELL_CACHE  = 'piar-shell-' + VERSION;
 const VENDOR_CACHE = 'piar-vendor-v1';
 const MODEL_CACHE  = 'piar-models-v1';
